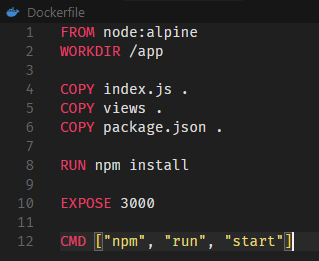
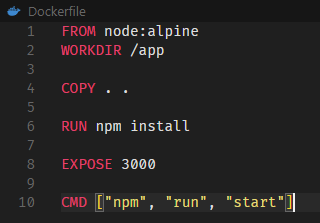
Update Week 13

diff --git a/Week 13 - Containerization with Docker/README.md b/Week 13 - Containerization with Docker/README.md
@@ -272,12 +272,13 @@ npm run start
 ![](./image/create-dockerfile.png/)
 
 
-* `FROM node:alpine`: ใช้ image พื้นฐาน `node:alpine` ที่มี Node.js และ npm พร้อมใช้งาน (ขนาดเล็ก)
-* `WORKDIR /app`: กำหนดโฟลเดอร์ `/app` เป็นที่ทำงานหลักใน container
-* `COPY ... .`: คัดลอกไฟล์ `index.js`, โฟลเดอร์ `views`, และ `package.json` จากเครื่อง host ไปที่โฟลเดอร์ `/app` ใน container
-* `RUN npm install`: ติดตั้ง dependencies ของ Node.js จาก `package.json` ภายใน container (ทำระหว่าง build image)
-* `EXPOSE 3000`: ประกาศว่า container จะเปิด port 3000 (เป็นการประกาศเฉย ๆ ไม่ได้เปิดจริง ต้องทำการ Publish Port เพื่อใช้งานจริง)
-* `CMD ["npm", "run", "start"]`: สั่งให้รันคำสั่ง `npm run start` เพื่อเริ่มแอปพลิเคชัน Node.js เมื่อ container เริ่มทำงาน
+*   **`FROM node:alpine`**: **ตั้งต้นจาก Image พื้นฐาน:**  ใช้ Docker Image `node:alpine` เป็นฐาน ซึ่งเป็น Image ที่มี Node.js และ npm ติดตั้งไว้แล้ว และใช้ระบบปฏิบัติการ Alpine Linux ที่มีขนาดเล็ก
+*   **`WORKDIR /app`**: **กำหนด Working Directory:**  เปลี่ยน Directory ทำงานปัจจุบันภายใน Container ไปที่ `/app`  คำสั่งต่อจากนี้จะทำงานใน Directory นี้
+*   **`COPY . .`**: **คัดลอกไฟล์ทั้งหมด:**  คัดลอกไฟล์และโฟลเดอร์ทั้งหมดจาก **current directory** (ที่อยู่ของ Dockerfile) บนเครื่อง Host ไปยัง **`/app`** directory ใน Container
+*   **`RUN npm install`**: **ติดตั้ง Dependencies:**  สั่งรันคำสั่ง `npm install` ภายใน Container เพื่อติดตั้ง Node.js dependencies ที่ระบุไว้ใน `package.json` ของโปรเจกต์
+*   **`EXPOSE 3000`**: **เปิด Port:**  ประกาศว่า Container จะ Listen บน Port `3000` (เป็นการบอก Docker เฉยๆ ไม่ได้ Publish Port จริงๆ)
+*   **`CMD ["npm", "run", "start"]`**: **คำสั่งเริ่มต้น Container:**  กำหนดคำสั่งที่จะรันเมื่อ Container เริ่มทำงาน ในที่นี้คือ `npm run start` ซึ่งมักจะใช้เพื่อสั่งรันแอปพลิเคชัน Node.js (โดย Script `start` ต้องถูกกำหนดไว้ใน `package.json`)
+
 
 
 ### 6. Create .dockerignore
@@ -333,9 +334,10 @@ docker run --name [name] [image-name]
 
 ![](./image/expose-port.png/)
 
-![](./image/hello-world.png/)
+![](./image/hello-world.png/)<br/>
+![alt text](./image/hello-ejs.png)
 
-`docker run -p [host-port]:[container-port] [image-name-with-tag]` บอกให้เปิดพอร์ต 4000 ในเครื่องเรา และเชื่อมกับพอร์ต 3000 ในคอนเทนเนอร์
+`docker run -p [host-port]:[container-port] [image-name-with-tag]` บอกให้เปิดพอร์ต 3000 ในเครื่องเรา และเชื่อมกับพอร์ต 3000 ในคอนเทนเนอร์
 
 ### 10. แสดง Container ที่กำลังทำงานอยู่
 
@@ -376,7 +378,10 @@ docker run -v $(pwd):[path-WORKDIR] -v $(pwd):[path-WORKDIR]/node_modules
 `[path-WORKDIR]` คือตำแหน่งที่เราต้องการ mount ไปที่ Container
 
 ![](./image/mount-volume.png/)
-***Command Prompt อาจจะไม่ไม่ได้***
+
+
+> [!IMPORTANT]
+> ต้องใช้ PowerShell เท่านั้น Command Prompt ใช้งานไม่ได้
 
 ### 15. คำสั่งที่ใช้ในการเข้าไปทำงานใน Container
 ![](./image/enter-container.png/)
